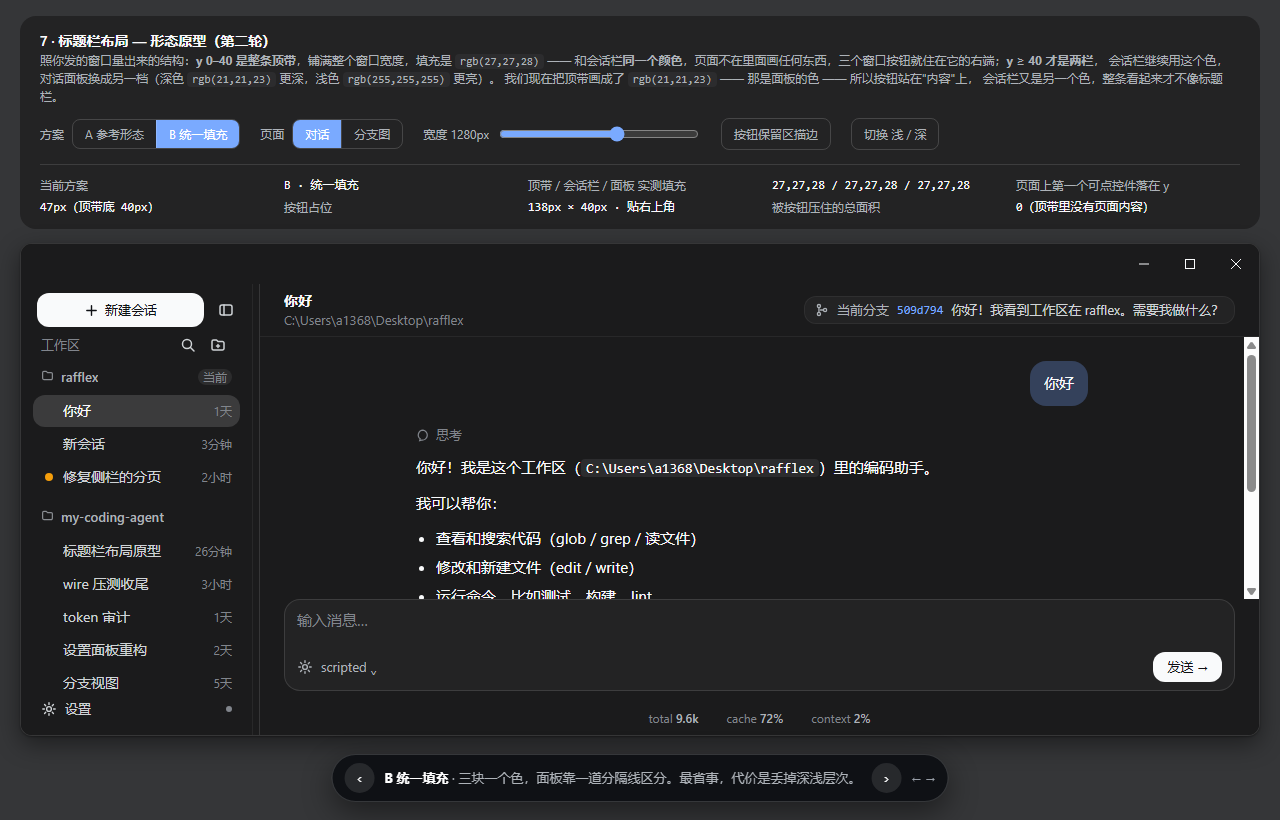
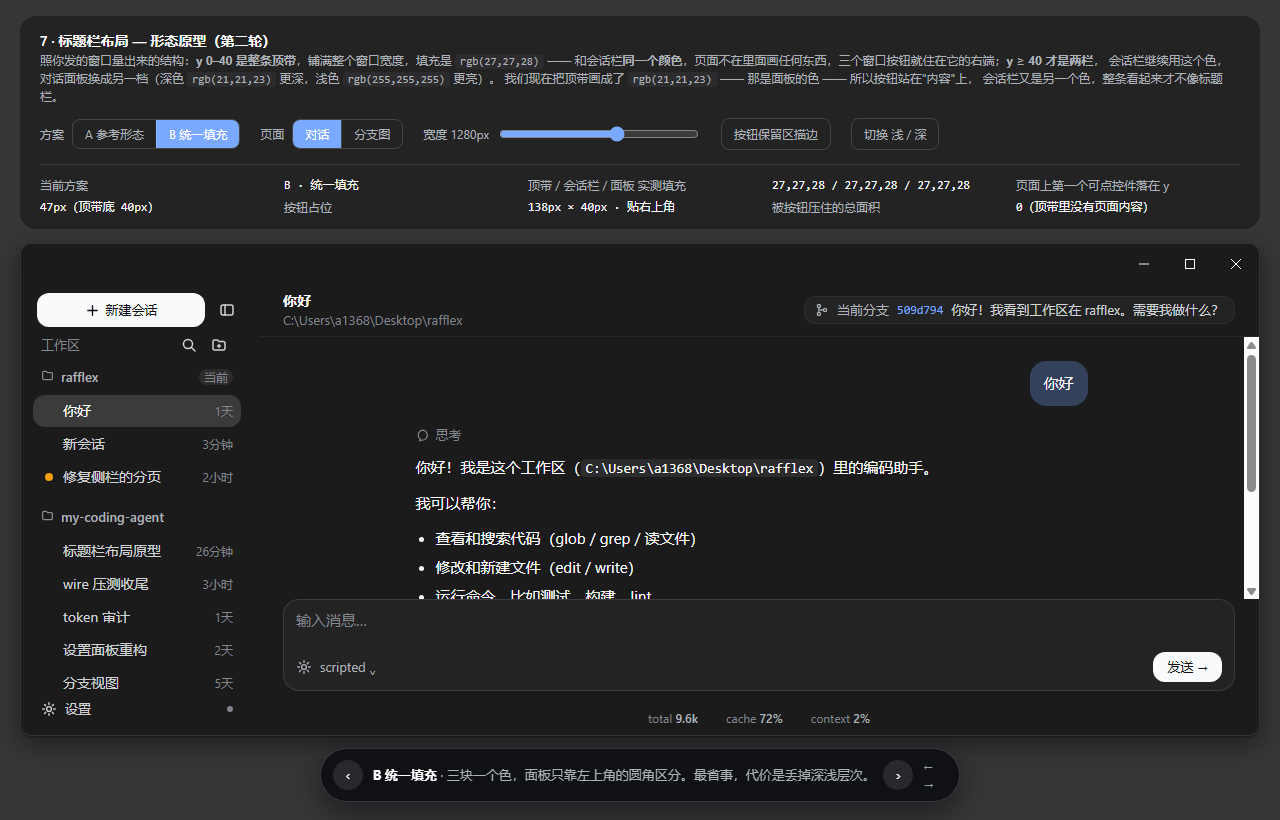
票 07 定案（方案 A：顶带）+ 毕业出票 12
用户拍板方案 A，并补两条：
  1. 面板左上角要圆角——参考图实测左缘 y=40 的 x=290 收到 y=50 的 x=280
     （约 10px）。原型用 --dsw-radius-lg（16px）：12px 在深色主题里只有几个
     像素抗锯齿，截图读起来是直角。
  2. 会话栏右侧不要那条线——两栏只靠填充区分。参考图 y=300 实测：会话栏
     27,27,28 到 x=279、面板 21,21,23 从 x=280 起，中间没有分隔像素。

原型里已落地：.sidebar 去掉 border-right；.conversation 加
border-top-left-radius；顺带发现 6px 拖拽手柄那一列会露出窗口填充、把圆角
切掉——窗口填充也设成 --dsw-bg-sidebar 之后接缝消失。

最终实测（真窗口 1280x820）：顶带/会话栏/面板 = 27,27,28 / 27,27,28 /
21,21,23；面板左缘 +40→x261、+44→x259；两栏接缝 27,27,28 直接跳 21,21,23
无分隔线；第一个可点控件 y=47（顶带底 40）；被按钮压住 0 px²。

毕业票 12-titlebar-band.md：拆顶带、顶带填充与 titleBarOverlay.color 跟主题、
.header-row 去掉标题栏高度、.branch-tools 的 min-width: 0，以及验收方式。
map 的 Decisions so far 记下结构结论，Not yet specified 里那条移除。

diff --git a/prototype/07-titlebar.html b/prototype/07-titlebar.html
@@ -247,7 +247,9 @@ input[type="range"] { width: 200px; accent-color: var(--dsw-button-info-fill); }
 	overflow: hidden;
 	border: 1px solid var(--dsw-border-l2);
 	box-shadow: var(--dsw-shadow-panel);
-	/* The window's own fill, which the band inherits: this IS `--dsw-bg-sidebar`. */
+	/* The window's own fill, which the band inherits: this IS `--dsw-bg-sidebar`. It is also what the
+	   drag handle's 6px column shows at rest — matching the sidebar means no seam, which is what the
+	   reference has (it draws no divider between the two columns at all). */
 	background: var(--dsw-bg-sidebar);
 }
 
@@ -310,7 +312,11 @@ input[type="range"] { width: 200px; accent-color: var(--dsw-button-info-fill); }
 	padding: 6px 12px;
 	/* The band's fill continued — one surface from the top of the window down the left column. */
 	background: var(--dsw-bg-sidebar);
-	border-right: 1px solid var(--dsw-border-l1);
+	/*
+	 * No border-right: the reference separates the two columns by their fills alone (measured at
+	 * y=300: sidebar 27,27,28 ends at x=279 and the panel's 21,21,23 starts at x=280 — no divider
+	 * pixel between them). A hairline there draws a seam the design does not have.
+	 */
 }
 .sidebar-top {
 	display: flex;
@@ -456,6 +462,15 @@ input[type="range"] { width: 200px; accent-color: var(--dsw-button-info-fill); }
 	grid-template-rows: auto 1fr auto auto;
 	/* The reading panel's own fill: the deeper of the two in the dark sheet. */
 	background: var(--dsw-bg-base);
+	/*
+	 * The panel's top-left corner is rounded, which is what makes the band + sidebar read as one
+	 * surface with a card laid into it rather than as three rectangles butted together. Measured on
+	 * the reference: the panel's left edge runs from x=290 at y=40 to x=280 at y=50 — a ~10px radius.
+	 * Stated a step up the radius scale (`--dsw-radius-lg`, 16px) because at 12px the arc is only a
+	 * few pixels of anti-aliasing against a 24% luminance step and reads as square in a screenshot.
+	 * Only the top-left: the other three corners are the window's own or sit against nothing.
+	 */
+	border-top-left-radius: var(--dsw-radius-lg);
 }
 
 /*
@@ -706,13 +721,10 @@ li { margin-bottom: 4px; }
 /* ============================================== the variants' structural rules */
 
 /*
- * B — 统一填充: the band and both columns take one fill, and the reading panel is set off by a
- * hairline instead of a tone. Cheapest to reason about; gives up the depth cue.
+ * B — 统一填充: the band and both columns take one fill, so the reading panel is set off by its
+ * rounded corner alone. Cheapest to reason about; gives up the depth cue.
  */
-.shell[data-variant="B"] .conversation {
-	background: var(--dsw-bg-sidebar);
-	border-left: 1px solid var(--dsw-border-l2);
-}
+.shell[data-variant="B"] .conversation { background: var(--dsw-bg-sidebar); }
 
 /* ============================================ the floating switcher (prototype only) */
 
@@ -934,7 +946,7 @@ li { margin-bottom: 4px; }
 
 const VARIANTS = [
 	{ key: "A", name: "参考形态", note: "顶带 = 会话栏填充，面板深一档。和你发的窗口 1:1。" },
-	{ key: "B", name: "统一填充", note: "三块一个色，面板靠一道分隔线区分。最省事，代价是丢掉深浅层次。" },
+	{ key: "B", name: "统一填充", note: "三块一个色，面板只靠左上角的圆角区分。最省事，代价是丢掉深浅层次。" },
 ];
 
 const PAGE = 5;

diff --git a/.scratch/ui-pass/issues/12-titlebar-band.md b/.scratch/ui-pass/issues/12-titlebar-band.md
@@ -1,0 +1,39 @@
+# 12 标题栏：立一条真正的顶带
+
+Type: task
+Status: open
+Label: feature
+
+## Question
+
+用户已挑定方案 A（`prototype/07-titlebar.html`）。要落地的事：
+
+**现在的形状**：`.header` 背着标题行，第一行是会话标题 + 分支芯片，第二行才是分支页工具行；`titleBarOverlay` 把三个窗口按钮画在页面**上面**，占右上角 138×40。于是按钮压住标题行里的分支芯片、以及分支页工具行里的「100% / 适应 / 回到对话」（图1、图2 的问题）。
+
+**要的形状**（照用户给的参考窗口逐像素量出来的）：窗口最上面是一条 **40px 顶带，铺满整个窗口宽度**，页面不在里面画任何东西，三个窗口按钮住在它的右端；`y ≥ 40` 才是两栏。顶带的填充与会话栏**同色**（深色 `rgb(27,27,28)`，浅色 `rgb(245,246,247)`），对话面板是另一档（深色 `rgb(21,21,23)`，浅色 `rgb(255,255,255)`）。
+
+**用户拍板时补的两条**：
+
+1. **面板左上角要圆角**——参考图里面板左缘从 y=40 的 x=290 收到 y=50 的 x=280（约 10px 半径）。原型用 `--dsw-radius-lg`（16px）：12px 在深色主题里只有几个像素的抗锯齿，截图里读起来是直角。
+2. **会话栏右侧不要那条线**——两栏之间只靠填充区分。参考图实测：y=300 一行里会话栏的 `27,27,28` 到 x=279 结束、面板的 `21,21,23` 从 x=280 开始，**中间没有分隔像素**。
+
+## 动手清单
+
+- [ ] 把顶带从 `.header` 里拆出去，做成窗口级的一条：`packages/web/src/style.css:648` 的 `.header` 现在同时是标题行的容器（`padding: 0 24px`、`.header-row` 上的 `height: var(--desktop-titlebar)` / `min-height: 52px`）。
+- [ ] 顶带填充用 `--dsw-bg-sidebar`；`.sidebar` 去掉 `border-right`（`style.css:69`）；`.conversation` 保留 `--dsw-bg-base` 并加 `border-top-left-radius: var(--dsw-radius-lg)`。
+- [ ] `packages/desktop/main.cjs` 的 `titleBarOverlay.color` 改为跟着 `--dsw-bg-sidebar` 走（`CHROME_LIGHT` / `CHROME_DARK` 现在写的是 `#f9fafb` / `#1b1b1c`，对应不了 `tokens.css` 的 `bluish-60` / `bluish-900`）——浅/深两套都要对。
+- [ ] 拖拽区归顶带（`-webkit-app-region: drag`），顶带内没有可交互内容；`.header-row` 不再需要标题栏高度。
+- [ ] 顺带修**现成的溢出**：`.branch-tools`（`style.css:755`）是 flex item，自动最小尺寸等于内容宽度，比 header 的 padding box 还宽，右侧会溢进按钮保留区——加 `min-width: 0` 并允许收缩（原生型 `prototype/07-titlebar.html` 里已验证这一条）。
+- [ ] 会话栏顶行（`sidebar-top`，40px + 6px padding）落在顶带之下；实测第一个可点控件应在 y≈47。
+
+## 验收
+
+- `npm run check` 与 README 的 smoke 清单（`smoke-transcript` / `smoke-branch` / `smoke-sidebar` 与窗口构图最相关）。
+- 真窗口截图核对：顶带铺满宽度且与会话栏同色、按钮全落在顶带内、两栏之间无分隔线、面板左上角有圆角；对话页与分支页各一张，浅/深各一张。
+- 「被按钮压住的总面积」= 0：顶带里没有页面内容（原型的读数面板已经在量这个）。
+
+## 参考
+
+- 原型与全部实测数字：[07 标题栏布局原型](07-titlebar-prototype.md)
+- 真窗口截图：`prototype/shot-A.png`（深·对话）、`shot-A-branch.png`（深·分支）、`shot-A-light.png`、`shot-A-branch-light.png`、`shot-A-branch-zone.png`（按钮保留区描边）
+- 复现原型：`npm run prototype:titlebar`，或双击 `prototype/07-titlebar.html`

diff --git a/.scratch/ui-pass/issues/07-titlebar-prototype.md b/.scratch/ui-pass/issues/07-titlebar-prototype.md
@@ -13,7 +13,20 @@ Label: feature
 
 做法：产出一个便宜的 HTML 原型（放 `prototype/`），给出 2-3 个布局方案（例如：工具行左移避开窗口按钮、标题栏加内边距、窗口按钮区留白列等），交给用户挑。原型确认后从 map 的 Not yet specified 毕业出实现 ticket。
 
-## 第二轮：结构本来就错了（等用户拍板）
+## Answer
+
+**用户拍板：方案 A**（参考形态），并补了两条修改：
+
+1. **面板左上角要圆角**——参考图实测面板左缘从 y=40 的 x=290 收到 y=50 的 x=280（约 10px）。原型落在 `--dsw-radius-lg`（16px）：12px 在深色主题里只有几个像素的抗锯齿，截图读起来是直角。落地时同样用 16px。
+2. **会话栏右侧不要那条线**——两栏只靠填充区分。参考图 y=300 实测：会话栏 `27,27,28` 到 x=279、面板 `21,21,23` 从 x=280 开始，中间没有分隔像素。原型里 `.sidebar` 的 `border-right` 已删。
+
+顺带发现：`prototype/` 里那条 6px 拖拽手柄的列会露出窗口填充，圆角被它切掉——把窗口填充也设成 `--dsw-bg-sidebar` 之后接缝消失（落地时 `.side-resizer` 的静止态同理，别让它变成一条可见的缝）。
+
+**毕业出的实现 ticket**：[12 标题栏：立一条真正的顶带](12-titlebar-band.md)。
+
+**答案落定后的最终实测**（真窗口 1280×820，方案 A）：顶带与会话栏都是 `27,27,28`、面板 `21,21,23`；面板左缘 y+40→x261、y+44→x259（圆角）；两栏接缝 x=258/259 直接由 `27,27,28` 跳到 `21,21,23`，无分隔线；第一个可点控件 y=47（顶带底 40）；被按钮压住 0 px²。
+
+## 第二轮：结构本来就错了（已定案，留全过程）
 
 **第一轮被否**：我把"躲按钮"当成纯粹的间距问题，四个方案都在**标题行内部**让位（加 padding / 让出 138px 列 / 顶带下移）。用户发来一张窗口截图，指出两件事——**那一整行都要留出来**，而且**正文面板的填充与会话栏不是一个深度**。
 
@@ -60,7 +73,7 @@ node packages/desktop/scripts/launch.mjs --load "prototype/07-titlebar.html?vari
 4. 顺带修第一轮踩到的现成溢出：`.branch-tools`（`style.css:755`）是 flex item，自动最小尺寸等于内容宽度，比 header 的 padding box 还宽、右侧溢进保留区——要给它 `min-width: 0` 并允许收缩。
 5. 会话栏顶部现在 46px（`sidebar-top` 40px + `padding: 6px`），落在顶带之下没问题；第一个可点控件实测在 y=47。
 
-**倾向**：A 参考形态——深色 `27,27,28` 顶带 + `21,21,23` 面板，浅色 `245,246,247` 顶带 + `255,255,255` 面板。B 只作备选。
+**倾向**（用户已确认）：A 参考形态——深色 `27,27,28` 顶带 + `21,21,23` 面板，浅色 `245,246,247` 顶带 + `255,255,255` 面板；面板左上角 16px 圆角；两栏之间不画分隔线。B 只作备选。
 
 **截图**：`prototype/shot-A.png`、`shot-A-branch.png`、`shot-B.png`、`shot-A-light.png`、`shot-A-branch-light.png`。
 

diff --git a/.scratch/ui-pass/map.md b/.scratch/ui-pass/map.md
@@ -24,11 +24,11 @@ Label: `wayfinder:map`
 ## Decisions so far
 
 - [桌面端启动验证与修复](issues/01-desktop-launch.md)：独显直连后仍以同样症状崩溃（GPU 0xC0000005 + 渲染 0x80000003），与显示模式无关；按预案把 `disableHardwareAcceleration` + `no-sandbox` 固化进 `main.cjs`，重启验证通过。
+- [标题栏布局原型](issues/07-titlebar-prototype.md)：结构照用户给的参考窗口逐像素量定——**y 0–40 是一条铺满窗口宽的顶带，填充与会话栏同色，页面不在里面画内容**；y ≥ 40 才是两栏，对话面板另一档深度（深色 `27,27,28` / `21,21,23`，浅色 `245,246,247` / `255,255,255`）。用户拍板方案 A，并补两条：**面板左上角圆角 16px**、**会话栏右侧不画分隔线**。原型 `prototype/07-titlebar.html`（`npm run prototype:titlebar`），全部实测数字与截图在 ticket 里。
 - [open-claude-ui 参考](issues/11-open-claude-ui-reference.md)：清单 7 条已备好（危险确认对话框、回到底部悬浮按钮、菜单键盘漫游、边缘渐隐、分割条双击归位、档位分段胶囊、状态点微动效），等用户挑中哪些再毕业成 ticket。
 
 ## Not yet specified
 
-- 标题栏原型（[标题栏布局原型](issues/07-titlebar-prototype.md)）：**第二轮原型已就绪**（`prototype/07-titlebar.html`，双击即可）。第一轮的"在标题行内部让位"四个方案已被用户否掉——照参考窗口逐像素量出来的结构是：**y 0–40 是一条铺满窗口宽的顶带，页面不在里面画任何东西，填充与会话栏同色；y ≥ 40 才是两栏，对话面板比会话栏深/浅一档**。我们现在的 bug 是顶带被画成了面板的色（`rgb(21,21,23)`），所以按钮站在"内容"上。`A 参考形态` 与 `B 统一填充` 两方案实测都是 0 冲突，等用户拍板后从"标题栏原型"毕业出实现 ticket；实现 ticket 要带上：拆顶带、顶带填充/`titleBarOverlay` 跟主题、`.header-row` 去掉标题栏高度、`.branch-tools` 的 `min-width: 0`。
 - [open-claude-ui 参考](issues/11-open-claude-ui-reference.md) 的借鉴清单会毕业出一批新 ticket（数量未知，取决于清单里哪些被用户挑中）。
 
 ## Out of scope
